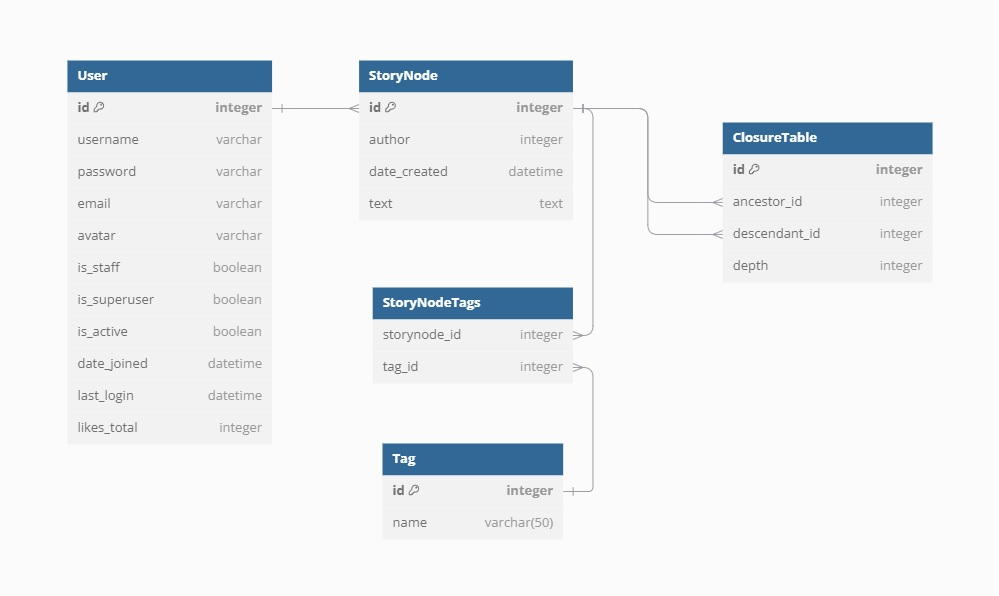
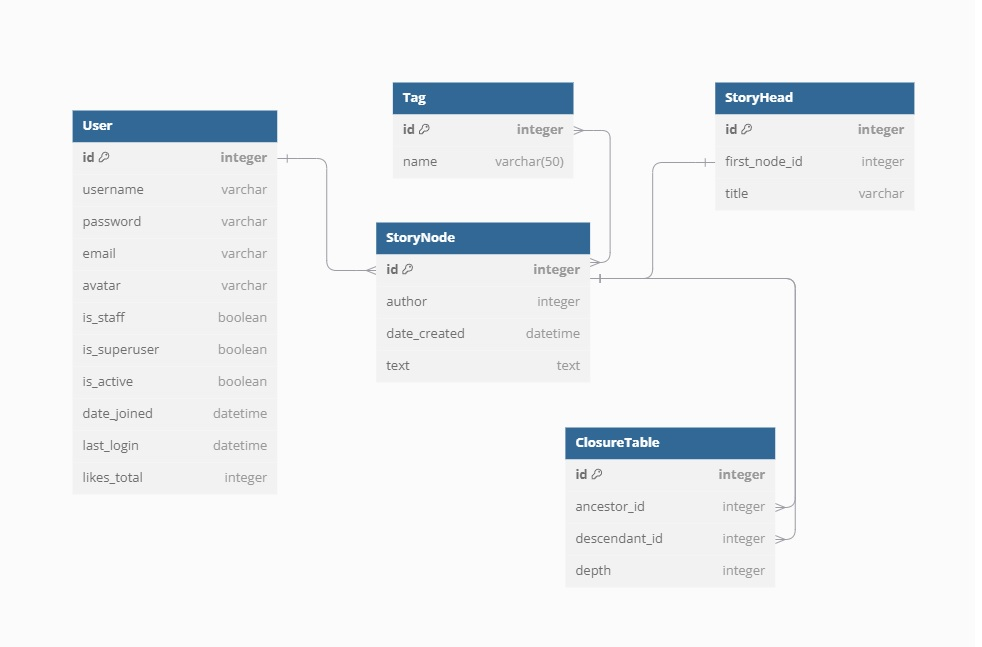
Story creation logic (editing not tested yet); tests for creating stories; minor changes to database structure --> README.md and ER.jpg as well;

diff --git a/nodestory/templates/stories/edit_story_base.html b/nodestory/templates/stories/edit_story_base.html
@@ -1,0 +1,33 @@
+{% extends "base.html" %}
+
+{% load i18n %}
+
+{% block content %}
+
+<div class="container my-5">
+    <div class="row">
+        <!-- Sidebar -->
+        <div class="col-md-3">
+            <div class="list-group">
+                {% with pk=request.resolver_match.kwargs.pk %}
+                {% url 'stories:edit_description' pk=pk as description_url%}
+                {% url 'stories:edit_story_node' pk=pk as content_url%}
+                <a href="{{description_url}}"
+                   class="list-group-item list-group-item-action {%if request.path == description_url%}active{%endif%}">
+                    {% translate "Edit Tags & Description" %}
+                </a>
+                <a href="{{content_url}}"
+                   class="list-group-item list-group-item-action {%if request.path == content_url%}active{%endif%}">
+                    {% translate "Edit Contents" %}
+                </a>
+                {% endwith %}
+            </div>
+        </div>
+
+        <!-- Main Content Area -->
+        {% block edit_story_content %}
+
+        {% endblock edit_story_content %}
+    </div>
+</div>
+{% endblock %}

diff --git a/nodestory/templates/includes/header.html b/nodestory/templates/includes/header.html
@@ -3,7 +3,9 @@
 <header>
   <nav class="navbar navbar-light bg-success justify-content-between">
       <a class="navbar-brand mx-5" href="{% url 'homepage:index' %}">NodeStory</a>
-      <button class="btn btn-info" onclick="location.href='{% url 'stories:create_story' %}'">{% translate "Create Story" %}</button>
+      {% if request.user.is_authenticated %}
+        <button class="btn btn-info" onclick="location.href='{% url 'stories:create_story' %}'">{% translate "Create Story" %}</button>
+      {% endif %}
       {% url 'login' as login_url %}
 
       {% if not request.user.is_authenticated and request.get_full_path != login_url %}

diff --git a/nodestory/templates/stories/edit_story_description.html b/nodestory/templates/stories/edit_story_description.html
@@ -1,0 +1,14 @@
+{% extends "stories/edit_story_base.html" %}
+
+{% load i18n %}
+
+{% block edit_story_content %}
+    <div class="col-md-9">
+        <h2>{% translate "Edit Story Information" %}</h2>
+        <form method="post">
+            {% csrf_token %}
+            {{ form.as_p }}  <!-- Render form fields dynamically -->
+            <button type="submit" class="btn btn-primary">{% translate "Save Changes" %}</button>
+        </form>
+    </div>
+{% endblock %}

diff --git a/nodestory/templates/stories/edit_story_node.html b/nodestory/templates/stories/edit_story_node.html
@@ -1,0 +1,14 @@
+{% extends "stories/edit_story_base.html" %}
+
+{% load i18n %}
+
+{% block edit_story_content %}
+    <div class="col-md-9">
+        <h2>{% translate "Create Your Story" %}</h2>
+        <form method="post">
+            {% csrf_token %}
+            {{ form.as_p }}  <!-- Render the form dynamically -->
+            <button type="submit" class="btn btn-primary">{% translate "Publish" %}</button>
+        </form>
+    </div>
+{% endblock %}

diff --git a/nodestory/stories/tests.py b/nodestory/stories/tests.py
@@ -1,16 +1,18 @@
+from django.conf import settings
 from django.contrib.auth import get_user_model
-from django.test import TestCase
+from django.test import Client, TestCase, tag
+from django.urls import reverse
 
 from parameterized import parameterized
 
-from .models import ClosureTable, StoryNode
+from .models import ClosureTable, StoryHead, StoryNode
 
 
 def records_equal(record1, record2):
     return (
-        record1.ancestor == record2.ancestor
-        and record1.descendant == record2.descendant
-        and record1.depth == record2.depth
+            record1.ancestor == record2.ancestor
+            and record1.descendant == record2.descendant
+            and record1.depth == record2.depth
     )
 
 
@@ -27,6 +29,7 @@ def unordered_querysets_equal(queryset, object_list, equal_func):
     return True
 
 
+@tag("db-func")
 class StoryNodeModelTesting(TestCase):
     @classmethod
     def setUpTestData(cls):
@@ -69,7 +72,7 @@ class StoryNodeModelTesting(TestCase):
         ]
     )
     def test_proper_closure_table_row_amount_created(
-        self, story_name, target_amo
+            self, story_name, target_amo
     ):
         records = ClosureTable.objects.filter(
             descendant=getattr(self, story_name, None)
@@ -101,3 +104,24 @@ class StoryNodeModelTesting(TestCase):
         # records collection must be transformed into set(), which is
         # impossible because requires hashing, which is
         # not applicable to no-primary-key objects, which are my records.
+
+
+@tag("gen-unit")
+class GeneralUnitTesting(TestCase):
+    fixtures = ["test_fixture.json"]
+
+    def test_story_creation_access_restricted(self):
+        response = Client().get(reverse("stories:create_story"))
+        self.assertRedirects(
+            response,
+            f"{settings.LOGIN_URL}?next={reverse('stories:create_story')}",
+        )
+
+    def test_story_is_created(self):
+        c = Client()
+        c.login(username="admin", password="admin")
+        story_amo = StoryNode.objects.count()
+        story_head_amo = StoryHead.objects.count()
+        c.get(reverse("stories:create_story"))
+        self.assertEqual(story_amo + 1, StoryNode.objects.count())
+        self.assertEqual(story_head_amo + 1, StoryHead.objects.count())

diff --git a/nodestory/stories/views.py b/nodestory/stories/views.py
@@ -1,13 +1,33 @@
+from django.contrib.auth.decorators import login_required
+from django.http import HttpResponseRedirect
 from django.shortcuts import render
-from django.views.generic import FormView
+from django.urls import reverse
+from django.views.generic.edit import UpdateView
 
-from .forms import StoryCreationForm
+from .forms import NodeCreationForm
+from .models import StoryHead, StoryNode
 
 
 def show_story(request, id):
     return render(request, "stories/read_story.html", context={"id": id})
 
 
-class CreateStory(FormView):
-    form_class = StoryCreationForm
-    template_name = "stories/create_story.html"
+@login_required
+def create_story_and_redirect(request):
+    new_node = StoryNode.objects.create(author=request.user)
+    StoryHead.objects.create(first_node=new_node)
+    return HttpResponseRedirect(
+        reverse("stories:edit_story_node", args=[new_node.pk])
+    )
+
+
+class EditStoryNode(UpdateView):
+    model = StoryNode
+    form_class = NodeCreationForm
+    template_name = "stories/edit_story_node.html"
+
+
+class EditStoryDescription(UpdateView):
+    model = StoryNode
+    form_class = NodeCreationForm
+    template_name = "stories/edit_story_description.html"

diff --git a/nodestory/stories/urls.py b/nodestory/stories/urls.py
@@ -1,12 +1,25 @@
-from django.urls import path
-
-from utils.views import left_intentionally_blank
+from django.urls import include, path
 
 from . import views
+
+edit_block = [
+    path(
+        "description/<int:pk>/",
+        views.EditStoryDescription.as_view(),
+        name="edit_description",
+    ),
+    path(
+        "contents/<int:pk>/",
+        views.EditStoryNode.as_view(),
+        name="edit_story_node",
+    ),
+]
+# do NOT change keyword name "PK", as it is used in templates for
+# communication between different parts of story editing pages
 
 app_name = "stories"
 urlpatterns = [
     path("<int:id>/", views.show_story, name="show_story"),
-    path("description/", left_intentionally_blank, name="edit_description"),
-    path("content/", left_intentionally_blank, name="create_story"),
+    path("create_new/", views.create_story_and_redirect, name="create_story"),
+    path("edit/", include(edit_block)),
 ]

diff --git a/nodestory/stories/migrations/0005_storyhead_tags_alter_storyhead_title.py b/nodestory/stories/migrations/0005_storyhead_tags_alter_storyhead_title.py
@@ -1,0 +1,23 @@
+# Generated by Django 5.1.3 on 2025-01-24 10:23
+
+from django.db import migrations, models
+
+
+class Migration(migrations.Migration):
+
+    dependencies = [
+        ("stories", "0004_storynode_published_storyhead"),
+    ]
+
+    operations = [
+        migrations.AddField(
+            model_name="storyhead",
+            name="tags",
+            field=models.ManyToManyField(to="stories.tag"),
+        ),
+        migrations.AlterField(
+            model_name="storyhead",
+            name="title",
+            field=models.CharField(default="No title", max_length=250),
+        ),
+    ]

diff --git a/nodestory/stories/models.py b/nodestory/stories/models.py
@@ -1,5 +1,6 @@
 from django.contrib.auth import get_user_model
 from django.db import models
+from django.utils.translation import gettext as _
 
 
 class Tag(models.Model):
@@ -80,9 +81,10 @@ class StoryNode(models.Model):
 
 
 class StoryHead(models.Model):
-    title = models.CharField(max_length=250)
+    title = models.CharField(max_length=250, default=_("No title"))
     first_node = models.OneToOneField(
         StoryNode,
         on_delete=models.CASCADE,
         related_name="head_info",
     )
+    tags = models.ManyToManyField(Tag)

diff --git a/nodestory/stories/forms.py b/nodestory/stories/forms.py
@@ -4,11 +4,11 @@ from django.forms import ModelForm
 from .models import StoryNode
 
 
-class NodeCreationForm(ModelForm):
+class BaseNodeCreationForm(ModelForm):
     class Meta:
         model = StoryNode
         fields = ["text"]
 
 
-class StoryCreationForm(NodeCreationForm):
+class NodeCreationForm(BaseNodeCreationForm):
     title = models.CharField()

diff --git a/nodestory/utils/views.py b/nodestory/utils/views.py
@@ -1,7 +1,7 @@
 from django.http import HttpResponse
 
 
-def left_intentionally_blank(request):
+def left_intentionally_blank(request, *args, **kwargs):
     return HttpResponse(
         "<h1>This page was left intentionally blank for now</h1>",
     )

diff --git a/README.md b/README.md
@@ -29,6 +29,7 @@ in root directory of the project
 * farnaKK, password: "Hemaphoho54" - casual user
 * farMak, password: "Giggily15!" - casual user
 
+These users are guaranteed for both fixture.json and test_fixture.json
 
 ### Models documentation
 #### Model "StoryNode"
@@ -58,3 +59,6 @@ Heads (and only heads!) of story trees have relation to themselves in ClosureTab
 This structure allows efficient access to all the descendants of 
 particular node, as well as to all parents/any child, which is crucial for efficient
 Depth-first search (DRF) of the tree.
+
+* StoryHead table - label for stories, attached to "tree roots" and keeps 
+* general story info - title, tags etc. 
